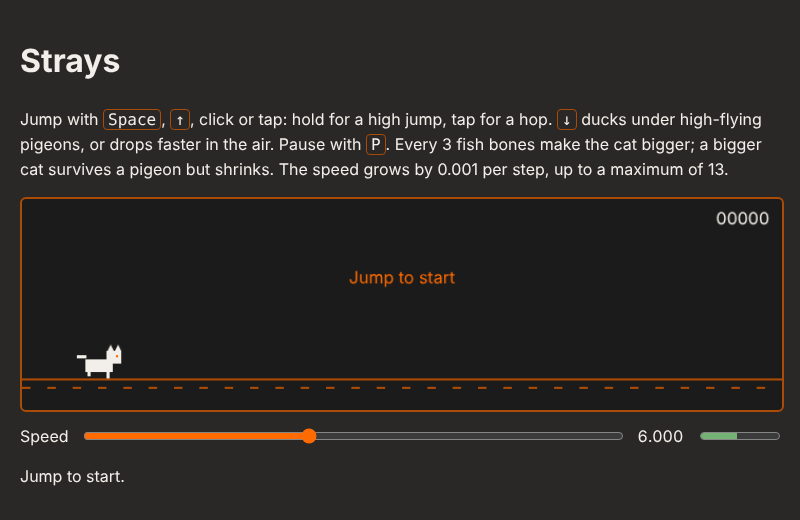
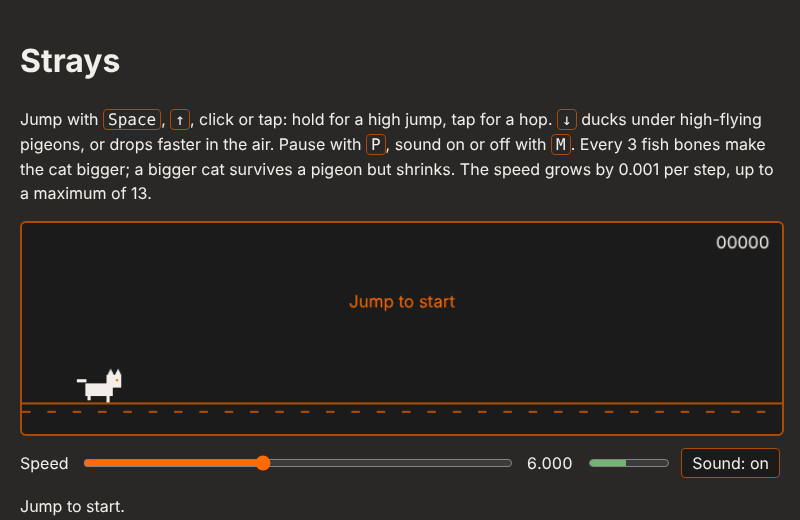
Add sound cues with an on/off setting (spec 03)
Eight short Web Audio blips, no audio files: jump, landing, treat,
grow, shrink, milestone every 1000 points, crash and new record. The
audio context starts on the first input; a "Sound: on/off" button and
the M key toggle it, and the choice is kept in localStorage. A new jump
cue stops the previous one, so fast jumps never stack.

The shrink cue is a proposal still waiting for a listening test. The
behaviour test counts the cues per run and checks the toggle and its
persistence.

Claude-Session: https://claude.ai/code/session_01WwwZG2Szd8R3ngBsM1TLoc

diff --git a/game.js b/game.js
@@ -36,6 +36,23 @@
   const PROTECT_STEPS = 60; // after absorbing a pigeon, pigeons pass through for 1 s
   const REDUCED_MOTION = window.matchMedia?.('(prefers-reduced-motion: reduce)').matches ?? false;
   const HIGH_SCORE_KEY = 'strays.highScore';
+  const SOUND_KEY = 'strays.sound';
+  // Sound cues (specs/03-sound.md): notes with an offset `at` in seconds, levels below master gain
+  const CUES = {
+    jump: [{ type: 'square', from: 380, to: 760, dur: 0.12, level: 0.5 }],
+    land: [{ type: 'sine', from: 150, to: 90, dur: 0.06, level: 0.6 }],
+    treat: [
+      { type: 'triangle', from: 1320, dur: 0.07, level: 0.7 },
+      { type: 'triangle', from: 1760, at: 0.075, dur: 0.07, level: 0.7 },
+    ],
+    milestone: [660, 880, 1320].map((from, i) => ({ type: 'triangle', from, at: i * 0.09, dur: 0.09, level: 0.6 })),
+    crash: [{ type: 'sawtooth', from: 440, to: 110, dur: 0.28, level: 0.45 }],
+    // Follows the crash cue, so it starts once that one is over
+    record: [523, 659, 784, 1047].map((from, i) => ({ type: 'square', from, at: 0.3 + i * 0.072, dur: 0.07, level: 0.4 })),
+    shrink: [{ type: 'triangle', from: 880, to: 330, dur: 0.2, level: 0.6 }],
+  };
+  CUES.grow = [...CUES.treat, ...CUES.treat.map((note) => ({ ...note, at: (note.at ?? 0) + 0.16 }))];
+  const MASTER_GAIN = 0.15;
 
   const playfield = document.getElementById('playfield');
   const ctx = playfield.getContext('2d');
@@ -43,6 +60,7 @@
   const readout = document.getElementById('readout');
   const gauge = document.getElementById('gauge');
   const status = document.getElementById('status');
+  const soundButton = document.getElementById('sound');
 
   const state = {
     phase: 'ready', // ready | running | paused | over
@@ -63,6 +81,7 @@
     size: 0, // index into SIZES
     protectSteps: 0,
     steps: 0, // simulation steps in this run
+    milestone: 0, // thousands of points reached in this run
     distanceToNext: 0,
     groundOffset: 0,
   };
@@ -82,6 +101,7 @@
     state.size = 0;
     state.protectSteps = 0;
     state.steps = 0;
+    state.milestone = 0;
     state.distanceToNext = 300;
     state.cat.y = GROUND_Y;
     state.cat.vy = 0;
@@ -99,7 +119,10 @@
       restart();
       return;
     }
-    if (state.cat.y >= GROUND_Y) state.cat.vy = JUMP_VELOCITY;
+    if (state.cat.y >= GROUND_Y) {
+      state.cat.vy = JUMP_VELOCITY;
+      playCue('jump');
+    }
   }
 
   function fastFall() {
@@ -160,6 +183,9 @@
       state.size += 1;
       state.growth = 0;
       announce('Bigger!');
+      playCue('grow');
+    } else {
+      playCue('treat');
     }
   }
 
@@ -170,11 +196,13 @@
     let gravity = GRAVITY;
     if (cat.fastFall) gravity *= FAST_FALL_GRAVITY;
     else if (cat.vy < 0 && !state.jumpHeld) gravity *= SHORT_JUMP_GRAVITY;
+    const wasInAir = cat.y < GROUND_Y;
     cat.vy += gravity;
     cat.y = Math.min(GROUND_Y, cat.y + cat.vy);
     if (cat.y === GROUND_Y) {
       cat.vy = 0;
       cat.fastFall = false;
+      if (wasInAir) playCue('land');
     }
     // The drawn size blends towards the current size; the hitbox uses the current size at once
     const target = SIZES[state.size];
@@ -221,6 +249,7 @@
       state.protectSteps = PROTECT_STEPS;
       hit.fleeing = true;
       announce('Hit a pigeon – smaller again.');
+      playCue('shrink');
     } else if (hit) {
       gameOver();
       return;
@@ -230,6 +259,11 @@
     if (state.speed < RULE.maximum) state.speed += RULE.incrementPerStep;
 
     state.score += state.speed / 10;
+    const milestone = Math.floor(state.score / 1000);
+    if (milestone > state.milestone) {
+      state.milestone = milestone;
+      playCue('milestone');
+    }
     state.groundOffset = (state.groundOffset + state.speed) % 24;
   }
 
@@ -243,6 +277,8 @@
       state.highScore = points;
       saveHighScore(points);
     }
+    playCue('crash');
+    if (state.newRecord) playCue('record');
     const verdict = state.newRecord ? 'New record!' : 'Ouch!';
     const treats = `${state.treats} ${state.treats === 1 ? 'treat' : 'treats'}`;
     announce(`${verdict} ${points} points, ${treats}, size ${state.size}, at speed ${state.speed.toFixed(3)}. Jump to restart.`);
@@ -292,6 +328,85 @@
     } catch {
       // Storage blocked: keep the best score for this visit only
     }
+  }
+
+  // --- Sound: short blips made with Web Audio, no audio files ---
+  const sound = { on: loadSound(), context: null, master: null, jumpNotes: [], played: {} };
+
+  function loadSound() {
+    try {
+      return localStorage.getItem(SOUND_KEY) !== 'off';
+    } catch {
+      return true;
+    }
+  }
+
+  function saveSound() {
+    try {
+      localStorage.setItem(SOUND_KEY, sound.on ? 'on' : 'off');
+    } catch {
+      // Storage blocked: the setting lasts for this visit only
+    }
+  }
+
+  // Browsers only allow audio after a user input, so this runs from the input handlers
+  function startAudio() {
+    if (sound.context || !sound.on) return;
+    const AudioContext = window.AudioContext || window.webkitAudioContext;
+    if (!AudioContext) return; // no Web Audio: the game stays silent
+    try {
+      sound.context = new AudioContext();
+      sound.master = sound.context.createGain();
+      sound.master.gain.value = MASTER_GAIN;
+      sound.master.connect(sound.context.destination);
+    } catch {
+      sound.context = null;
+    }
+  }
+
+  function playCue(name) {
+    if (!sound.on || !sound.context) return;
+    if (sound.context.state === 'suspended') sound.context.resume();
+    const start = sound.context.currentTime + 0.01;
+    if (name === 'jump') {
+      // Fast repeated jumps never stack: the previous jump cue stops
+      for (const note of sound.jumpNotes) {
+        try { note.stop(); } catch { /* already over */ }
+      }
+    }
+    const notes = CUES[name].map((note) => playNote(note, start));
+    if (name === 'jump') sound.jumpNotes = notes;
+    sound.played[name] = (sound.played[name] ?? 0) + 1;
+  }
+
+  // One note: 8 ms attack, exponential glide and decay to silence
+  function playNote({ type, from, to = from, at = 0, dur, level }, start) {
+    const t = start + at;
+    const oscillator = sound.context.createOscillator();
+    const gain = sound.context.createGain();
+    oscillator.type = type;
+    oscillator.frequency.setValueAtTime(from, t);
+    if (to !== from) oscillator.frequency.exponentialRampToValueAtTime(to, t + dur);
+    gain.gain.setValueAtTime(0.0001, t);
+    gain.gain.exponentialRampToValueAtTime(level, t + 0.008);
+    gain.gain.exponentialRampToValueAtTime(0.0001, t + dur);
+    oscillator.connect(gain).connect(sound.master);
+    oscillator.start(t);
+    oscillator.stop(t + dur + 0.02);
+    return oscillator;
+  }
+
+  function toggleSound() {
+    sound.on = !sound.on;
+    saveSound();
+    startAudio();
+    updateSoundButton();
+    announce(sound.on ? 'Sound on.' : 'Sound off.');
+  }
+
+  function updateSoundButton() {
+    soundButton.textContent = `Sound: ${sound.on ? 'on' : 'off'}`;
+    soundButton.setAttribute('aria-pressed', String(sound.on));
   }
 
   // --- Drawing ---
@@ -457,13 +572,21 @@
     updateReadout();
   });
 
+  soundButton.addEventListener('click', toggleSound);
+
   // --- Input ---
   document.addEventListener('keydown', (event) => {
+    startAudio();
     if (event.code === 'KeyP' && !event.repeat) {
       togglePause();
       return;
     }
-    if (event.target === slider) return;
+    if (event.code === 'KeyM' && !event.repeat) {
+      toggleSound();
+      return;
+    }
+    // The slider and the sound button use these keys themselves
+    if (event.target === slider || event.target === soundButton) return;
     if (event.code === 'Space' || event.code === 'ArrowUp') {
       event.preventDefault();
       // A held key repeats; it must not jump again on landing
@@ -484,6 +607,7 @@
   });
   playfield.addEventListener('pointerdown', (event) => {
     event.preventDefault();
+    startAudio();
     // preventScroll: focusing a partly hidden canvas must not scroll the page
     playfield.focus({ preventScroll: true });
     state.jumpHeld = true;
@@ -556,8 +680,11 @@
     get obstacleTypes() { return [...state.seenTypes]; },
     get score() { return Math.floor(state.score); },
     get highScore() { return state.highScore; },
+    get sound() { return sound.on; },
+    get cuesPlayed() { return { ...sound.played }; },
   };
 
   updateReadout();
+  updateSoundButton();
   requestAnimationFrame(loop);
 })();

diff --git a/index.html b/index.html
@@ -14,8 +14,9 @@
       <p>
         Jump with <kbd>Space</kbd>, <kbd>↑</kbd>, click or tap: hold for a high jump, tap for a hop.
         <kbd>↓</kbd> ducks under high-flying pigeons, or drops faster in the air. Pause with
-        <kbd>P</kbd>. Every 3 fish bones make the cat bigger; a bigger cat survives a pigeon but
-        shrinks. The speed grows by 0.001 per step, up to a maximum of 13.
+        <kbd>P</kbd>, sound on or off with <kbd>M</kbd>. Every 3 fish bones make the cat bigger; a
+        bigger cat survives a pigeon but shrinks. The speed grows by 0.001 per step, up to a maximum
+        of 13.
       </p>
 
       <canvas id="playfield" width="720" height="200" tabindex="0"
@@ -27,6 +28,7 @@
         <input id="slider" type="range" min="1" max="13" step="0.5" value="6" />
         <output id="readout" for="slider">6.000</output>
         <meter id="gauge" min="0" max="13" value="6" aria-label="Speed up to the maximum of 13"></meter>
+        <button id="sound" type="button" aria-pressed="true">Sound: on</button>
       </div>
       <p id="status" aria-live="polite">Jump to start.</p>
 

diff --git a/style.css b/style.css
@@ -54,6 +54,21 @@ canvas:focus-visible {
   min-height: 3em;
 }
 
+button {
+  padding: 2px 10px;
+  background: var(--surface);
+  color: var(--text);
+  border: 1px solid var(--border);
+  border-radius: 4px;
+  font: inherit;
+  cursor: pointer;
+}
+
+button:focus-visible {
+  outline: 3px solid var(--accent);
+  outline-offset: 2px;
+}
+
 output {
   font-variant-numeric: tabular-nums;
   min-width: 5ch;

diff --git a/specs/03-sound.md b/specs/03-sound.md
@@ -17,6 +17,8 @@ Short, friendly sound cues that make jumps and crashes feel tangible, without an
   | **Milestone** (04) | every 1000 points | triangle 660, 880, 1320 Hz, 3 × 0.09 s, level 0.6 |
   | **Crash** | collision with an obstacle | sawtooth gliding 440 → 110 Hz, 0.28 s, level 0.45 |
   | **New record** (06) | once, right after the crash cue, only when the high score falls | square 523, 659, 784, 1047 Hz, 4 × 0.07 s, level 0.4 |
+  | **Grow** (09) | the cat grows one size | the treat cue twice, the second 0.16 s after the first |
+  | **Shrink** (09) | a pigeon hit makes the cat smaller | triangle gliding 880 → 330 Hz, 0.2 s, level 0.6 (proposed, waiting for a listening test) |
 
 - Each note has an 8 ms attack and an exponential decay to silence; frequency glides are
   exponential. Levels are relative to the master gain.
@@ -42,9 +44,12 @@ None.
 
 ## Acceptance criteria
 
-- [ ] `window.strays.sound` reports `true` or `false`; M and the button both toggle it.
-- [ ] The setting survives a reload.
-- [ ] No console errors in a browser without audio output (headless test).
+- [x] `window.strays.sound` reports `true` or `false`; M and the button both toggle it.
+- [x] The setting survives a reload.
+- [x] No console errors in a browser without audio output (headless test).
+- [x] Every cue plays on its event (`window.strays.cuesPlayed` counts them; the scripted runs hit
+      all eight) and none plays while the sound is off.
+- [ ] Heard on real speakers inside the game, not only on the sound check page.
 
 ## Out of scope
 

diff --git a/README.md b/README.md
@@ -34,8 +34,9 @@ python3 -m http.server 8000
 
 Then open <http://localhost:8000/>. Jump with Space, arrow up, click or tap: hold for a high
 jump, tap for a hop. Arrow down ducks under high-flying pigeons, or drops faster in the air. Pause
-with P. From speed 7 on, box stacks, box rows and pigeons join the single boxes. Fish bones give
-50 points, and every 3 of them make the cat bigger: a bigger cat survives a pigeon but shrinks.
+with P, sound on or off with M. From speed 7 on, box stacks, box rows and pigeons join the single
+boxes. Fish bones give 50 points, and every 3 of them make the cat bigger: a bigger cat survives a
+pigeon but shrinks.
 The game also pauses by itself when you switch tabs.
 
 ## Test
@@ -43,7 +44,8 @@ The game also pauses by itself when you switch tabs.
 `test/test-game.mjs` checks the behaviour with Playwright (increase per second, freeze on
 collision, restart at 6, cap at 13, high score kept across a reload and without storage, no speed growth while paused,
 hop lower than a held jump, faster landing with arrow down, a scripted player surviving all obstacle
-types at speed 13, growing from fish bones and shrinking from pigeons) and saves screenshots. `BOT_SECONDS` sets that run's length (default 60):
+types at speed 13, growing from fish bones and shrinking from pigeons, sound cues and the sound setting) and saves
+screenshots. `BOT_SECONDS` sets that run's length (default 60):
 
 ```bash
 npm i playwright-core

diff --git a/specs/09-treats.md b/specs/09-treats.md
@@ -96,8 +96,8 @@ Two limits, both from the current playfield (200 px high, ground at y = 170):
 
 ## Sound and effects
 
-- Growing plays the treat cue twice in a row (03); shrinking gets its own cue, to be added to spec
-  03 and tried on the sound check page before it is built.
+- Growing plays the treat cue twice in a row (03); shrinking has its own cue (03), built as a
+  proposal and waiting for a listening test.
 - With `prefers-reduced-motion`, the size change is instant and the cat does not blink; it is
   drawn at 50 % opacity during the protected second instead.
 

diff --git a/specs/README.md b/specs/README.md
@@ -38,7 +38,7 @@ bridge for the borrowed rule; everything in this folder is an original design.
 | --- | --- | --- | --- |
 | 01 | [Favicon](01-favicon.md) | Polish | done |
 | 02 | [Pause](02-pause.md) | Polish | done |
-| 03 | [Sound](03-sound.md) | Polish | planned |
+| 03 | [Sound](03-sound.md) | Polish | done |
 | 04 | [Effects](04-juice.md) | Polish | planned |
 | 05 | [Day and night](05-day-night.md) | Polish | planned |
 | 06 | [High score](06-highscore.md) | Gameplay | done |
